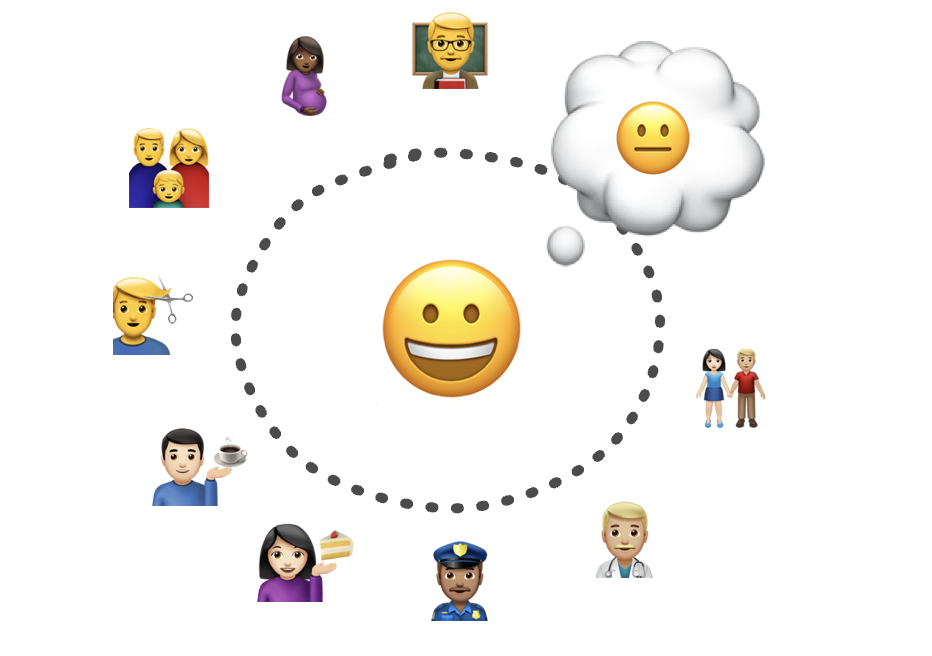
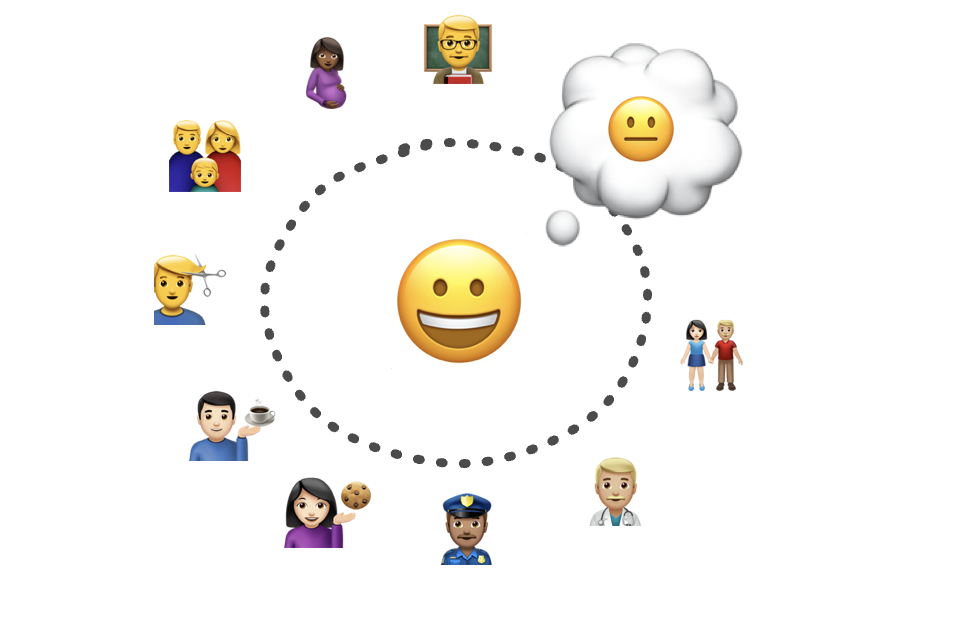
replace cake with cookie

diff --git a/_posts/2023/2023-06-10-self-configuration.md b/_posts/2023/2023-06-10-self-configuration.md
@@ -14,7 +14,7 @@ _spending most of my time maintaining financial, social, physical, and mental st
 
 ![dark-office](/assets/configuration/dark-office.avif)
 
-_wile I work in a dark room with terrible posture in exchange for money..._
+_while I work in a dark room with terrible posture in exchange for money..._
 
 ![budget](/assets/configuration/budget.png)
 
@@ -28,9 +28,9 @@ _What little attention I have left is bombarded with stimuli from all directions
 
 _leaving no room for the people I encounter in real life, becoming apathetic to their otherwise genuine presence..._
 
-![sleep-cake](/assets/configuration/sleep-cake.png)
+![sleep-cake](/assets/configuration/sleep-cookie.png)
 
-_And when I finally put down the phone to sleep, I reflect on the decision to eat that slice of cake._
+_And when I finally put down the phone to sleep, I reflect on the decision to have eaten that cookie._
 
 ---
 
